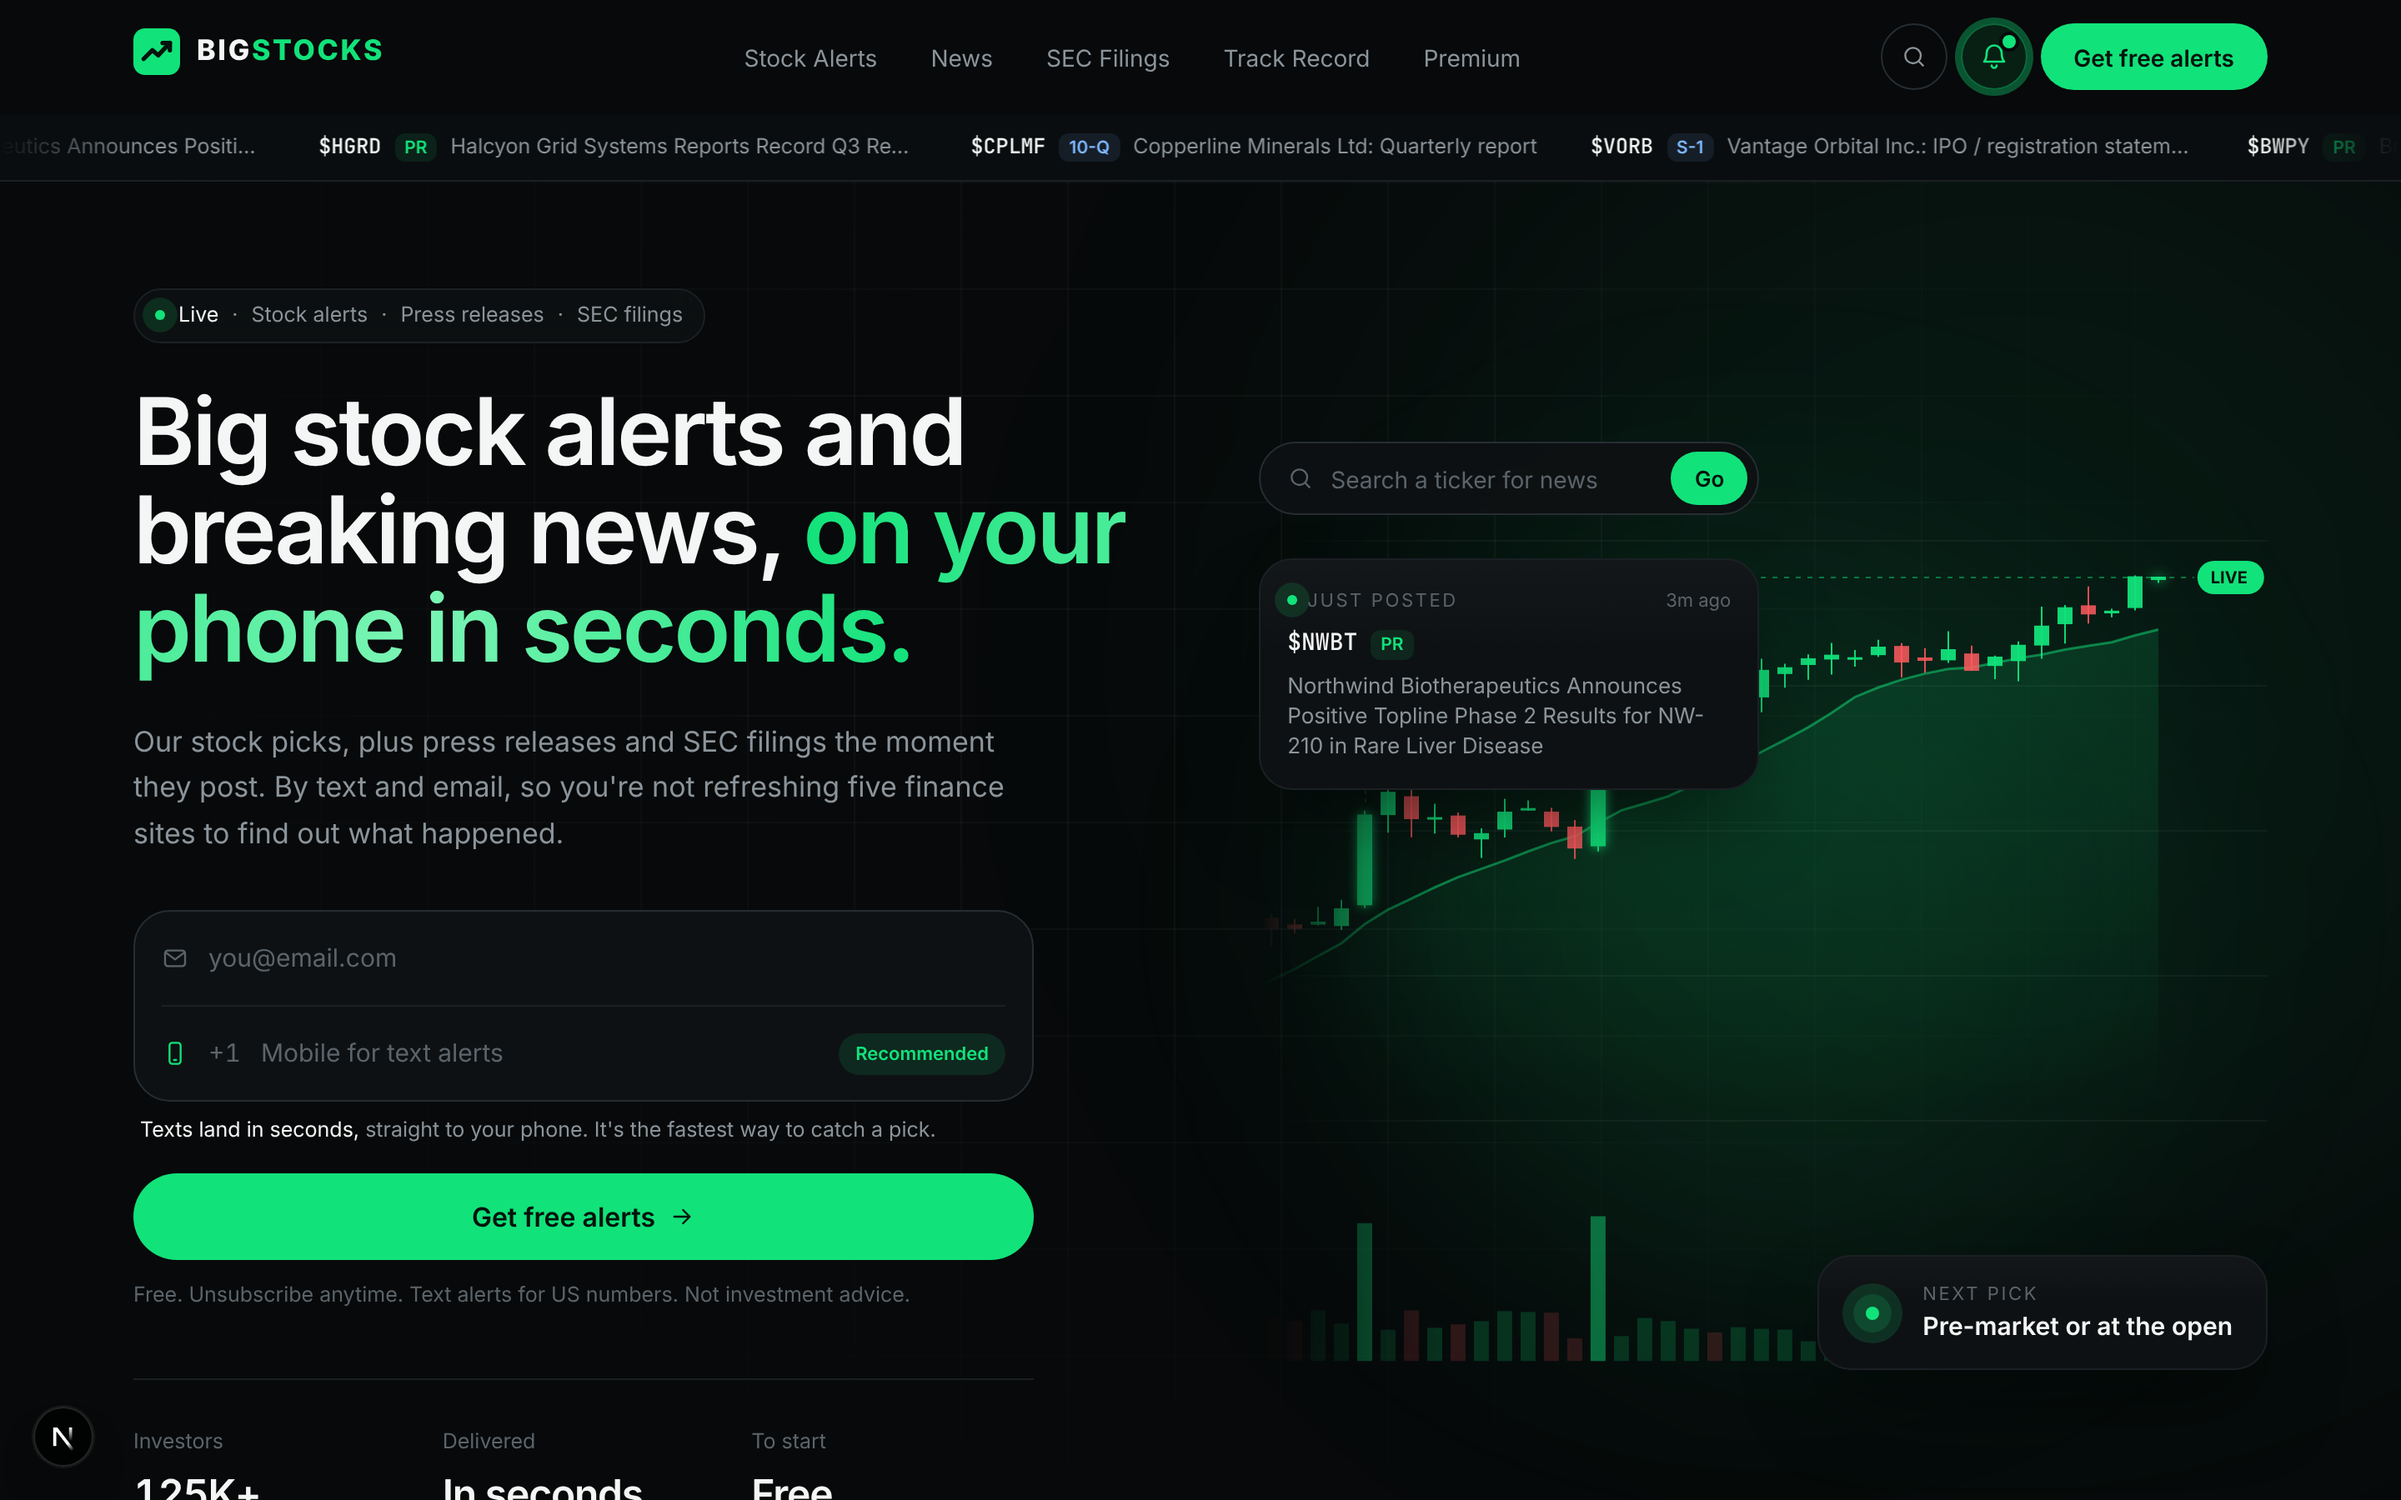
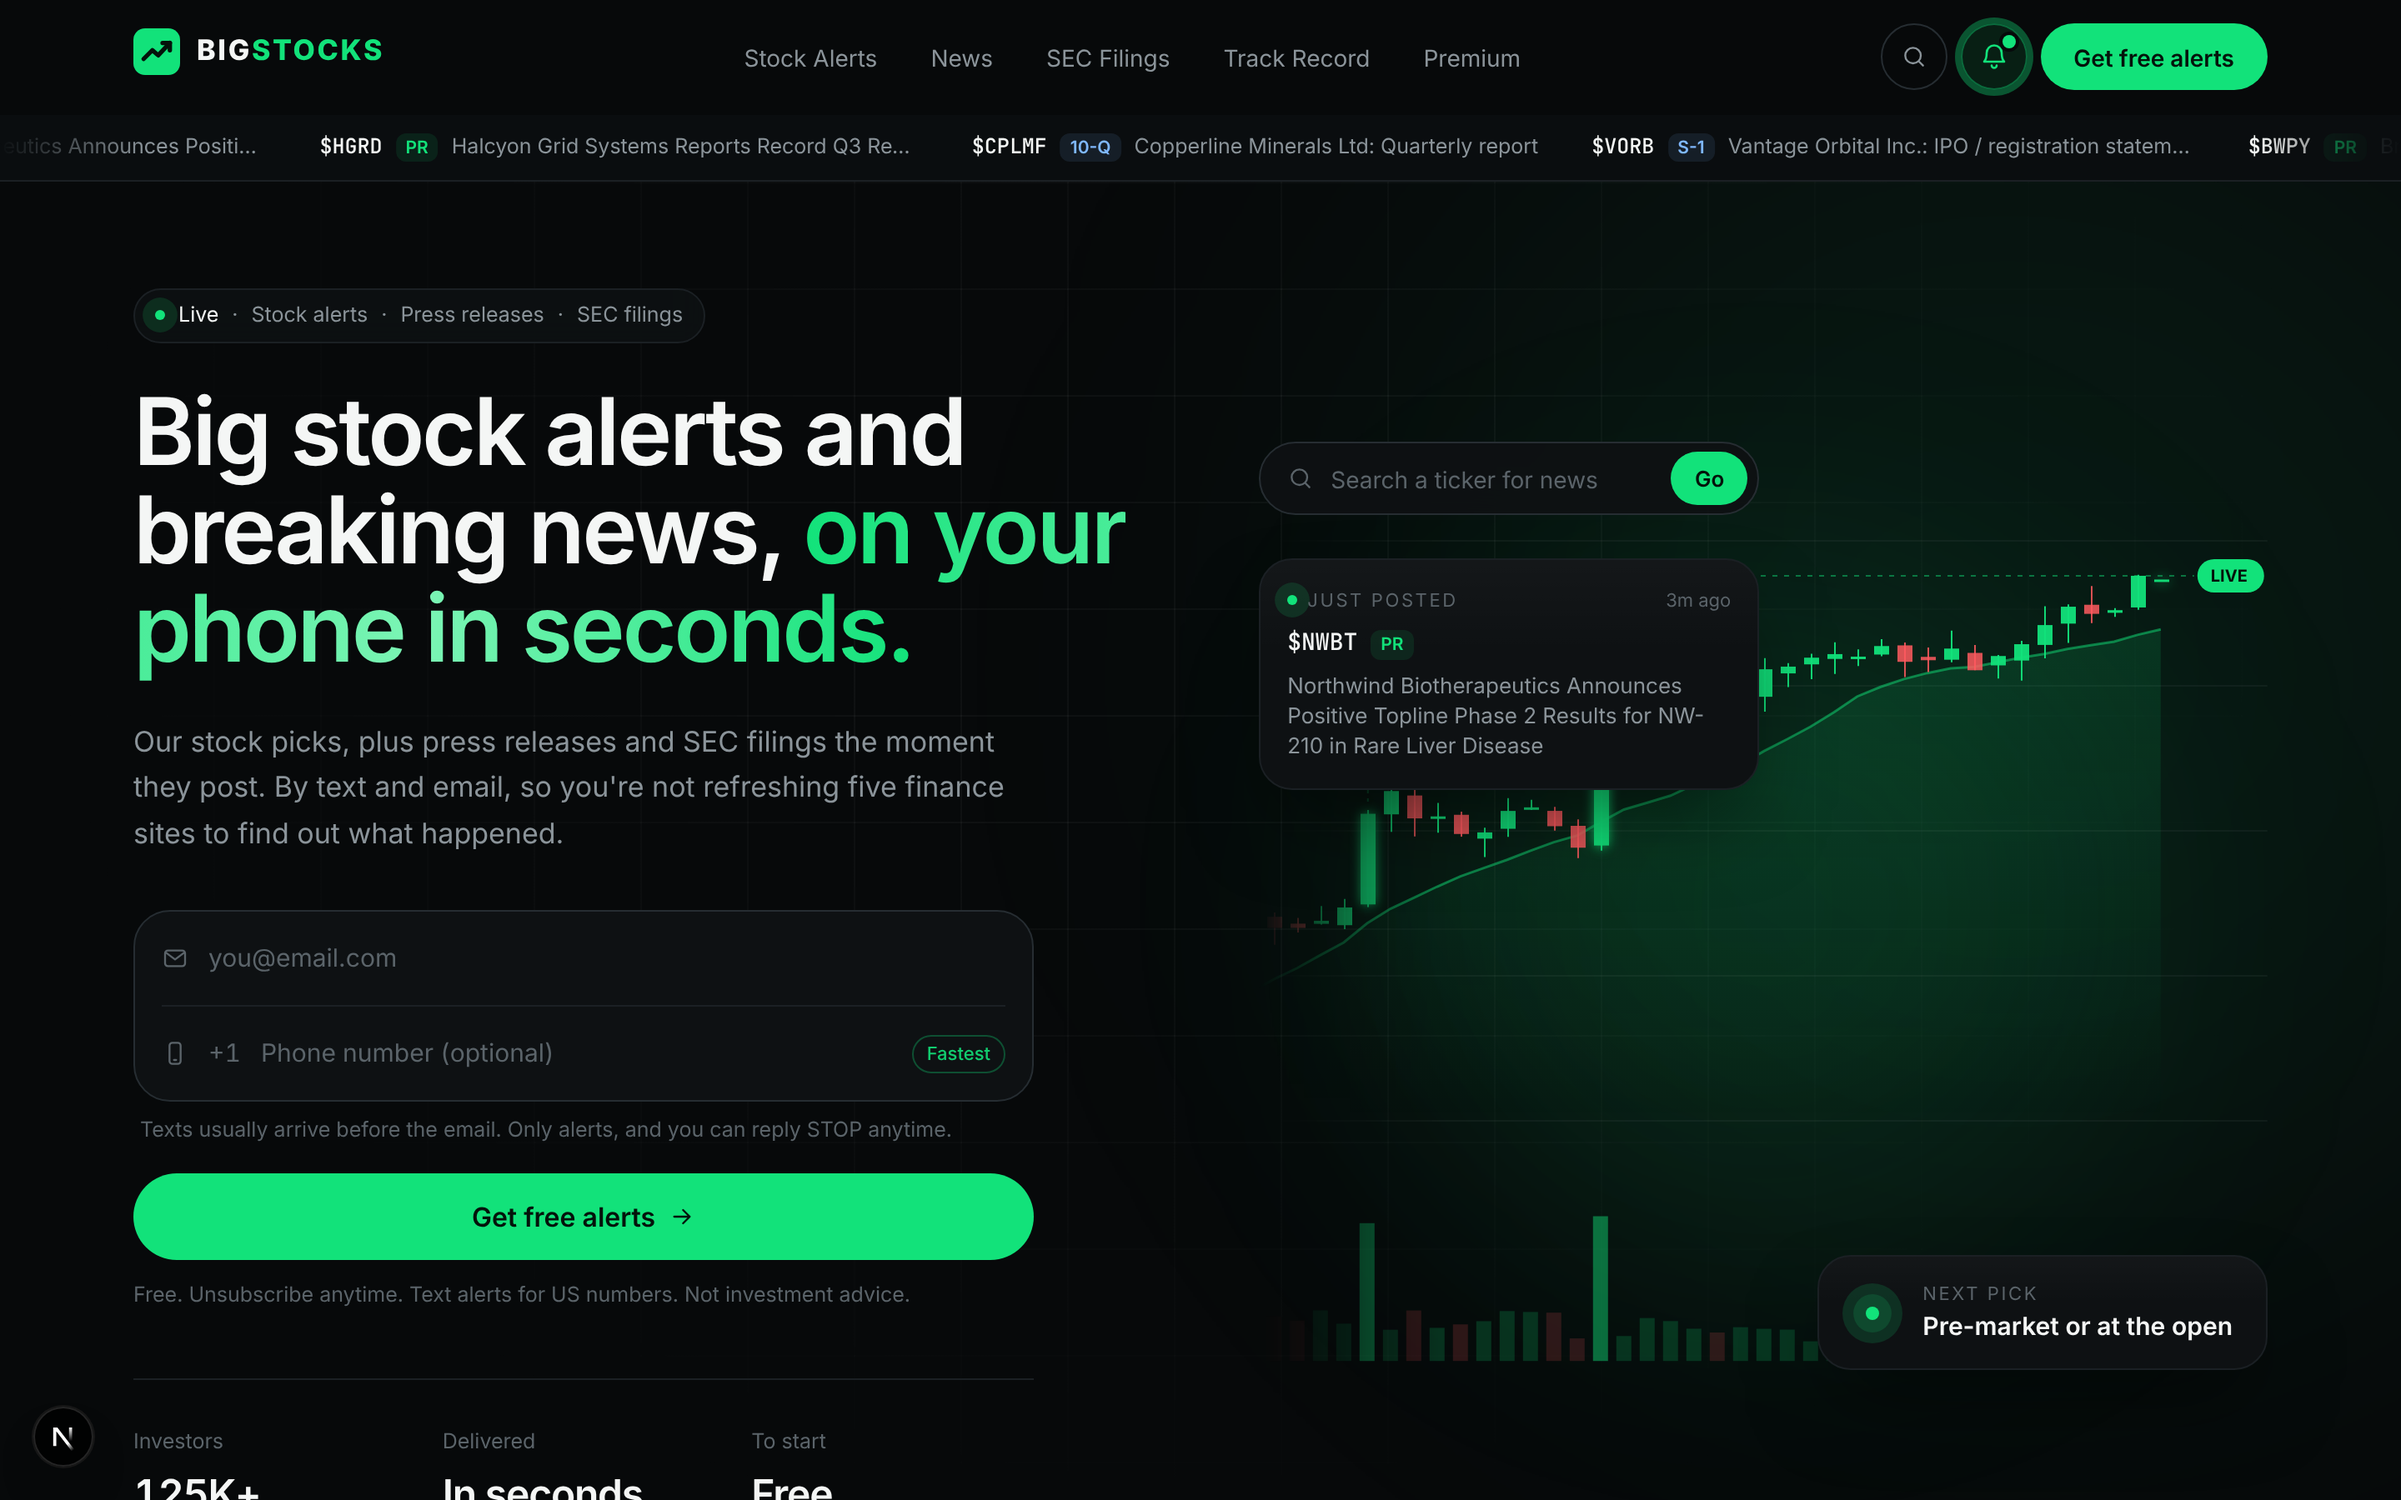
Softer phone field and simpler What you get section
- Phone field: "Phone number (optional)" with a quiet "Fastest" tag and a
  calmer note (texts usually arrive first; only alerts; reply STOP anytime)
- What you get: "Own a stock?" becomes "Follow the stocks you own" with a
  clear ticker box and Follow button; benefit boxes removed; delivery line
  now says no spam, unsubscribe anytime

Claude-Session: https://claude.ai/code/session_01TSq7212Nn36UX5aZBHhhe9

diff --git a/components/sections/WhatYouGet.tsx b/components/sections/WhatYouGet.tsx
@@ -15,13 +15,6 @@ const TABS: { id: Tab; icon: typeof TrendUp; title: string; line: string; detail
     detail: "8-Ks, 10-Qs, S-1s and insider filings, in plain English, a few seconds after they post." },
 ];
 
-const BENEFITS = [
-  ["Save time", "One place instead of five finance sites."],
-  ["Hear it first", "Seconds after it posts, not hours."],
-  ["Only your stocks", "Follow the tickers you own. Skip the rest."],
-  ["Free to start", "Upgrade to Premium when you want every pick."],
-] as const;
-
 function preview(tab: Tab, items: FeedItem[]) {
   const press = items.find((i) => i.kind === "press" && i.ticker);
   const filing = items.find((i) => i.kind === "filing" && i.ticker);
@@ -111,14 +104,15 @@ export function WhatYouGet({ items = [] }: { items?: FeedItem[] }) {
                 <span className="text-[13px] text-muted">Free picks several times a week.</span>
               </div>
             ) : (
-              <form onSubmit={follow} className="flex flex-wrap items-center gap-3">
-                <label htmlFor="get-ticker" className="text-[14px] text-muted">Own a stock?</label>
-                <div className="flex h-11 min-w-0 flex-1 items-center gap-2 rounded-full border border-line-strong bg-surface pl-4 pr-1.5 focus-within:border-brand/60">
-                  <input id="get-ticker" value={ticker} onChange={(e) => setTicker(e.target.value.slice(0, 8))} placeholder={p.ticker || "AAPL"}
+              <form onSubmit={follow}>
+                <label htmlFor="get-ticker" className="block text-[15px] font-semibold">Follow the stocks you own</label>
+                <p className="mt-0.5 text-[13.5px] text-muted">Don&apos;t miss a press release or SEC filing from a company you hold.</p>
+                <div className="mt-3 flex h-11 items-center gap-2 rounded-full border border-line-strong bg-surface pl-4 pr-1.5 focus-within:border-brand/60">
+                  <input id="get-ticker" value={ticker} onChange={(e) => setTicker(e.target.value.slice(0, 8))} placeholder="Enter a ticker, e.g. AAPL"
                     autoComplete="off" spellCheck={false}
                     className="min-w-0 flex-1 bg-transparent font-mono text-[14px] uppercase text-ink placeholder:font-sans placeholder:normal-case placeholder:text-faint focus:outline-none" />
-                  <button type="submit" className="bell-halo relative inline-flex h-8 shrink-0 items-center gap-1.5 rounded-full bg-brand px-3.5 text-[13px] font-semibold text-[#04130b]">
-                    <Bell className="h-3.5 w-3.5" /> Get its news
+                  <button type="submit" className="inline-flex h-8 shrink-0 items-center gap-1.5 rounded-full bg-brand px-3.5 text-[13px] font-semibold text-[#04130b] transition-colors hover:bg-[#2bf08d]">
+                    <Bell className="h-3.5 w-3.5" /> Follow
                   </button>
                 </div>
               </form>
@@ -127,26 +121,18 @@ export function WhatYouGet({ items = [] }: { items?: FeedItem[] }) {
         </div>
       </div>
 
-      {/* Benefits + delivery choice */}
-      <div className="mt-5 grid gap-px overflow-hidden rounded-2xl border border-line bg-line sm:grid-cols-2 lg:grid-cols-4">
-        {BENEFITS.map(([h, b]) => (
-          <div key={h} className="bg-surface p-5">
-            <p className="text-[15px] font-semibold">{h}</p>
-            <p className="mt-1 text-[13.5px] leading-relaxed text-muted">{b}</p>
-          </div>
-        ))}
-      </div>
-      <div className="mt-4 flex flex-wrap items-center gap-2 text-[14px] text-muted">
+      {/* Delivery choice */}
+      <div className="mt-6 flex flex-wrap items-center gap-2 text-[14px] text-muted">
         <span className="mr-1">Get it by</span>
         <button type="button" onClick={() => openAlerts({ source: "what-you-get-text" })}
-          className="inline-flex h-9 items-center gap-2 rounded-full border border-brand/40 bg-brand/10 px-3.5 font-medium text-brand transition-colors hover:bg-brand/20">
-          <Phone className="h-4 w-4" /> Text <span className="text-[11px] font-semibold opacity-80">Recommended</span>
+          className="inline-flex h-9 items-center gap-2 rounded-full border border-line-strong px-3.5 font-medium text-ink transition-colors hover:border-brand/40 hover:bg-white/[0.04]">
+          <Phone className="h-4 w-4 text-brand" /> Text
         </button>
         <button type="button" onClick={() => openAlerts({ source: "what-you-get-email" })}
-          className="inline-flex h-9 items-center gap-2 rounded-full border border-line-strong px-3.5 font-medium text-ink transition-colors hover:bg-white/[0.04]">
+          className="inline-flex h-9 items-center gap-2 rounded-full border border-line-strong px-3.5 font-medium text-ink transition-colors hover:border-brand/40 hover:bg-white/[0.04]">
           <Mail className="h-4 w-4 text-brand" /> Email
         </button>
-        <span>or both. Unsubscribe anytime.</span>
+        <span>or both. No spam, and you can unsubscribe anytime.</span>
       </div>
     </section>
   );

diff --git a/components/AlertForm.tsx b/components/AlertForm.tsx
@@ -134,16 +134,16 @@ export function AlertForm({
         </div>
         <div className="mx-4 h-px bg-line" />
         <div className={row}>
-          <Phone className="h-4 w-4 shrink-0 text-brand" />
+          <Phone className="h-4 w-4 shrink-0 text-faint" />
           <span className="num text-[15px] text-faint" aria-hidden="true">+1</span>
-          <label htmlFor={`${id}-phone`} className="sr-only">Mobile number for text alerts (US, recommended)</label>
-          <input id={`${id}-phone`} type="tel" autoComplete="tel-national" inputMode="tel" placeholder="Mobile for text alerts"
+          <label htmlFor={`${id}-phone`} className="sr-only">Phone number for text alerts (optional)</label>
+          <input id={`${id}-phone`} type="tel" autoComplete="tel-national" inputMode="tel" placeholder="Phone number (optional)"
             value={phone} onChange={(e) => setPhone(formatPhone(e.target.value))} className={`num ${input}`} />
-          <span className="shrink-0 rounded-full bg-brand/12 px-2.5 py-1 text-[11px] font-semibold text-brand">Recommended</span>
+          <span className="shrink-0 rounded-full border border-brand/30 px-2 py-0.5 text-[11px] font-medium text-brand/90">Fastest</span>
         </div>
       </div>
-      <p className="mt-2 px-1 text-[12.5px] text-muted">
-        <span className="text-ink">Texts land in seconds,</span> straight to your phone. It&apos;s the fastest way to catch a pick.
+      <p className="mt-2 px-1 text-[12.5px] text-faint">
+        Texts usually arrive before the email. Only alerts, and you can reply STOP anytime.
       </p>
 
       {hasPhone && (

diff --git a/README.md b/README.md
@@ -15,7 +15,7 @@ Ad packages are not on the homepage; `/advertise` is linked from the footer only
 **Next pick:** countdown to the 8:00–9:30 AM ET pick window on trading days (`components/sections/NextPick.tsx`,
 `lib/schedule.ts`). Add next year's NYSE holidays to `lib/schedule.ts` each December.
 
-**Sign-up box** (`components/AlertForm.tsx`): email and mobile in one box; text is optional but marked Recommended. The same form is in the
+**Sign-up box** (`components/AlertForm.tsx`): email and phone in one box; the phone is optional, tagged "Fastest". The same form is in the
 **bell pop-up** (`components/AlertsDialog.tsx`), which opens from the bell in the top menu, next to every feed, and on
 each feed row. With a ticker it offers that company's press releases & SEC filings plus free stock picks (both checked),
 using one combined SMS consent (`smsCombinedConsentText` in `lib/sms-consent.ts`, stored with each sign-up).
